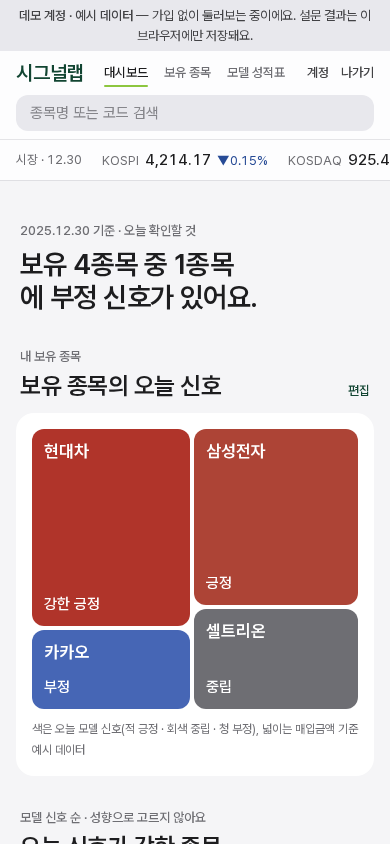
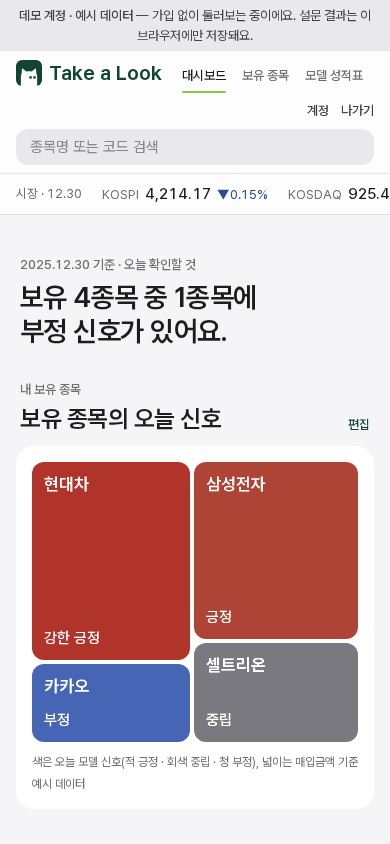
docs: 서비스명 Take a Look 반영 + README 팀 표
- README 머리말·팀 표·면책, 화면 캡처 5장 새로 찍음
- AGENTS.md 서비스명 한 줄, docs/CHANGELOG.md 생성, 문서 색인 갱신
- frontend package name → take-a-look-web

diff --git a/README.md b/README.md
@@ -1,6 +1,8 @@
-# 시그널랩 (SignalLab)
+# Take a Look
 
-**초보 투자자가 종목을 판단할 근거를 쉽게 보여 주는 서비스.**
+**초보 투자자를 위한 판단 근거 서비스**
+
+행동재무학 기반 투자 판단 보조 플랫폼 · 성균관대 소프트웨어학과 2026 졸업작품.
 투자 성향을 진단해 근거를 보여 주는 순서를 사람마다 다르게 하고, 주가 예측 모델은 여러 근거 중 하나로만 씁니다.
 
 [![Web CI](https://github.com/2026Graduation-Work/Stock_Prediction_v2/actions/workflows/web-ci.yml/badge.svg)](https://github.com/2026Graduation-Work/Stock_Prediction_v2/actions/workflows/web-ci.yml)
@@ -116,17 +118,15 @@ docs/               설계·데이터·설정 문서 (색인: docs/README.md)
 
 ## 팀
 
-성균관대학교 소프트웨어학과 2026학년도 졸업작품
-
-| 블록 | 담당 |
-|---|---|
-| `backend/profiling` · 스키마 | 최중현 |
-| `backend/analysis/chart` | 서진세 |
-| `backend/analysis/text` | 김서환 |
-| `frontend` · 인프라 | 임성우 |
+| 이름 | 역할 | 주요 담당 |
+|---|---|---|
+| 최중현 | 팀장 · 프로젝트 매니저 | 기획·설계, 성향 진단, 웹 개발·배포 |
+| 서진세 | 차트 분석 | 차트 모델·백테스트, 시장 심리 특성·A/B 실험 |
+| 김서환 | 텍스트·재무 분석 | 뉴스 감성 분석, DART 재무 지표 |
+| 임성우 | 프론트엔드·QA | 초기 대시보드, Supabase 환경, QA |
 
 ## 라이선스
 
 [MIT](LICENSE)
 
-> 시그널랩은 투자 자문이 아닙니다. 모든 신호는 과거 데이터에 기반한 통계적 참고 정보이며, 투자 판단과 책임은 사용자에게 있습니다.
+> Take a Look은 투자 자문이 아닙니다. 모든 신호는 과거 데이터에 기반한 통계적 참고 정보이며, 투자 판단과 책임은 사용자에게 있습니다.

diff --git a/docs/README.md b/docs/README.md
@@ -14,6 +14,8 @@
 | [../frontend/DESIGN.md](../frontend/DESIGN.md) | 화면 규칙(성균관대 색·애플 톤). 값은 `frontend/app/globals.css` `@theme` |
 | [../.claude/skills/README.md](../.claude/skills/README.md) | 검토한 디자인 스킬 4종·충돌 판정표 |
 | [CONTRIBUTING.md](CONTRIBUTING.md) | 협업 규칙 |
+| [CHANGELOG.md](CHANGELOG.md) | 서비스 단위 변경 기록(서비스명 등) |
+| [brand/README.md](brand/README.md) | 로고 후보·선택 이유·사용 규칙 |
 | [../backend/analysis/text/VALUE_PIPELINE_VALIDATION.md](../backend/analysis/text/VALUE_PIPELINE_VALIDATION.md) | 가치투자 파이프라인 출력 검증 절차 |
 | [../backend/analysis/chart/experiments/features/PSYCHOLOGY_FEATURES.md](../backend/analysis/chart/experiments/features/PSYCHOLOGY_FEATURES.md) | 가격·거래량 심리 피처 정의(psychology_market_v1) |
 

diff --git a/AGENTS.md b/AGENTS.md
@@ -4,6 +4,7 @@
 > 이 파일은 Codex·Claude Code 등 모든 코딩 에이전트의 상시 지침입니다. 상세 기획은 노션 "과제 안내서 v1.2"가 SSOT.
 
 ## 프로젝트 한 줄 정의
+서비스명 **Take a Look** — 초보 투자자를 위한 판단 근거 서비스(2026-09 SignalLab에서 변경, `docs/CHANGELOG.md`). 화면 문구·메타데이터는 `frontend/lib/brand.ts`, 로고는 `docs/brand/README.md`.
 초보 투자자가 종목을 판단할 근거를 쉽게 확인하도록 돕는 웹 플랫폼. 설문(8축)으로 투자 성향을 진단해 정보 표시 순서와 주의 안내를 개인화하고, 예측 모델은 여러 근거 중 하나로 둔다.
 연구 질문: ① 가격·거래량 기반 시장 심리 피처가 예측 신호에 보탬이 되는가(A/B) ② 성향 기반 표시가 초보자의 이해를 돕는가(사용성 평가)
 

diff --git a/docs/CHANGELOG.md b/docs/CHANGELOG.md
@@ -1,0 +1,3 @@
+# CHANGELOG
+
+- 2026-09 서비스명 변경: SignalLab → Take a Look
